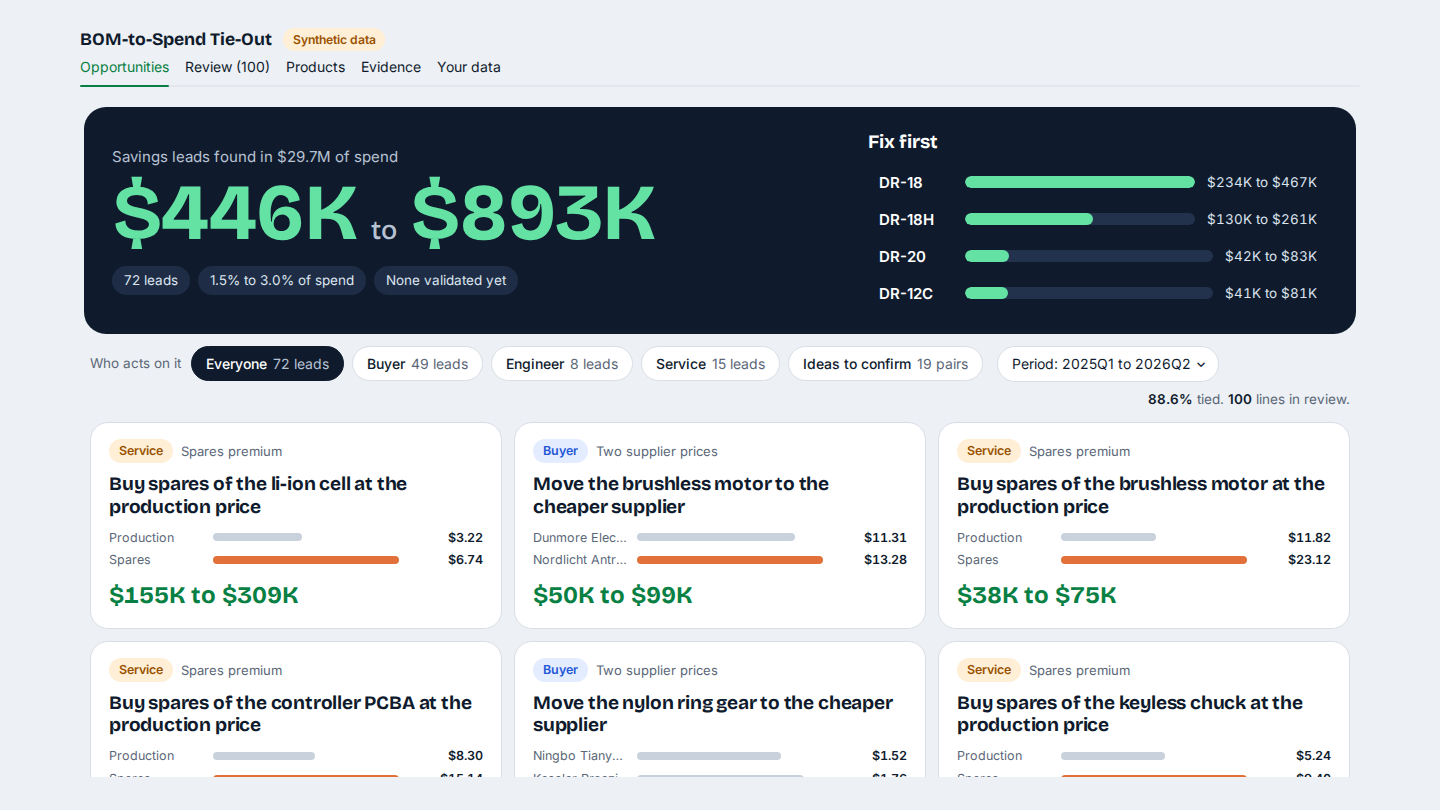
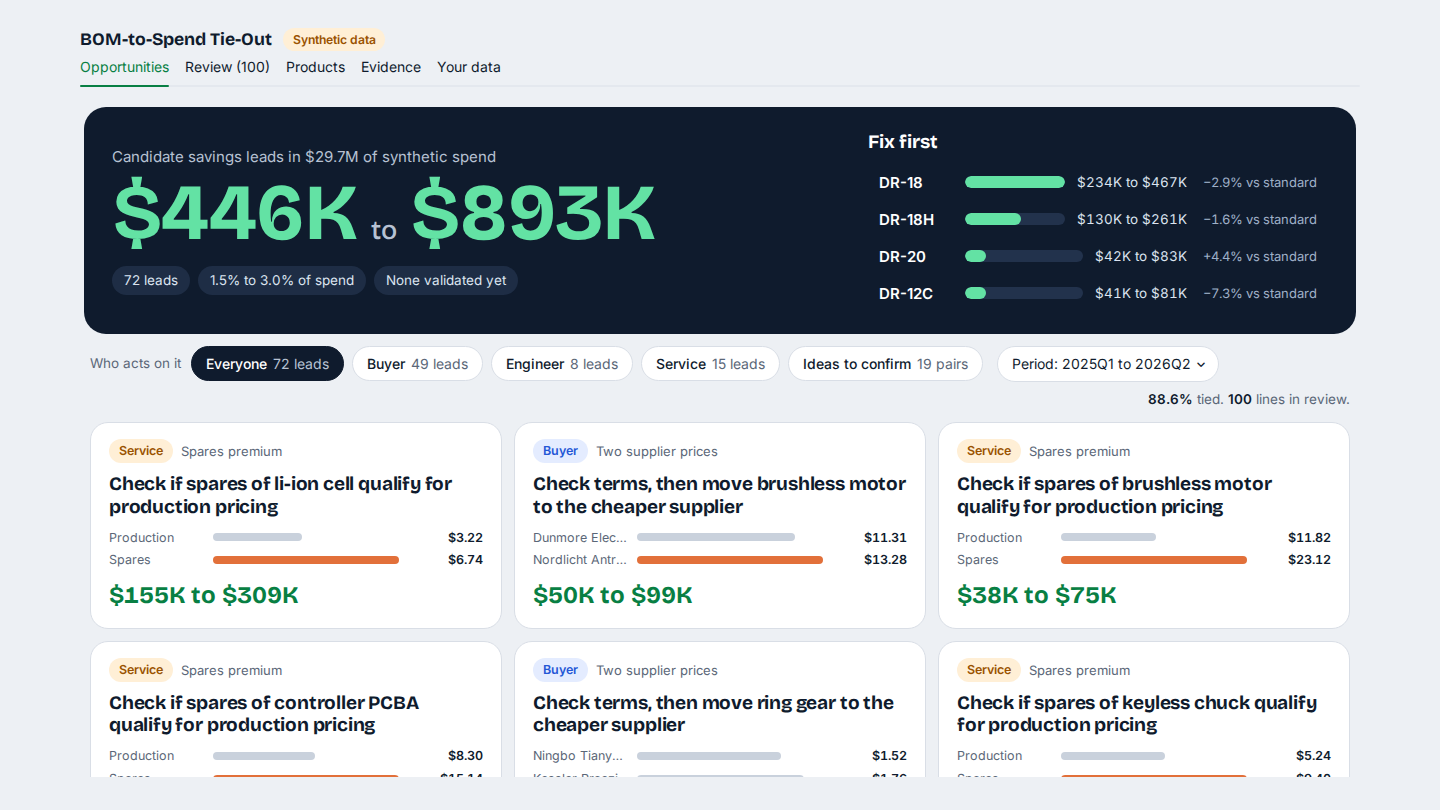
Word the leads as checks and show cost against standard in Fix first
- Hero label: candidate savings leads, in synthetic spend for the built-in sample
- Lead actions are checks: spares pricing, supplier terms, interchangeability
- Fix first rows show each product's estimated cost against BOM standard

Wording only; no figures change.

diff --git a/opportunities.html b/opportunities.html
@@ -33,12 +33,13 @@ button:focus-visible { outline: 3px solid var(--buyer); outline-offset: 2px; }
 .pill { font-size: 13.5px; padding: 5px 12px; border-radius: 999px; background: #1E2D45; color: #DCE4F0; }
 .pill.done { background: var(--money-on-dark); color: #062b18; font-weight: 600; }
 .fix-title { font-family: var(--display); font-weight: 700; font-size: 19px; margin-bottom: 8px; }
-.prod { width: 100%; display: grid; grid-template-columns: 74px 1fr auto; gap: 12px; align-items: center; background: transparent; border: 1.5px solid transparent; border-radius: 12px; padding: 7px 10px; text-align: left; color: #fff; }
+.prod { width: 100%; display: grid; grid-template-columns: 74px 1fr auto auto; gap: 12px; align-items: center; background: transparent; border: 1.5px solid transparent; border-radius: 12px; padding: 7px 10px; text-align: left; color: #fff; }
 .prod:hover { background: #18263C; }
 .prod[aria-pressed="true"] { border-color: var(--money-on-dark); background: #18263C; }
 .prod-name { font-weight: 600; }
 .prod-track { height: 12px; border-radius: 6px; background: #22324C; overflow: hidden; }
 .prod-fill { height: 100%; border-radius: 6px; background: var(--money-on-dark); transform-origin: left; animation: grow .7s cubic-bezier(.2,.8,.2,1) both; }
+.prod-vs { font-size: 13px; color: #9FB0C8; font-variant-numeric: tabular-nums; white-space: nowrap; min-width: 118px; text-align: right; }
 .prod-amt { font-size: 13.5px; color: #DCE4F0; font-variant-numeric: tabular-nums; white-space: nowrap; }
 @keyframes grow { from { transform: scaleX(0); } }
 
@@ -141,7 +142,7 @@ function countUp(el, to) {
 
 function renderHero() {
   const ls = live(), val = DATA.leads.filter((l) => state.status[l.id] === "validated");
-  $("heroLabel").textContent = "Savings leads found in " + money(DATA.spend_total) + " of spend";
+  $("heroLabel").textContent = "Candidate savings leads in " + money(DATA.spend_total) + (DATA.synthetic ? " of synthetic spend" : " of spend");
   countUp($("lo"), sum(ls, "low")); countUp($("hi"), sum(ls, "high"));
   const share = (v) => (100 * v / DATA.spend_total).toFixed(1) + "%";
   $("pills").innerHTML =
@@ -153,7 +154,7 @@ function renderProducts() {
   const rows = DATA.products.map((p) => {
     const ls = live().filter((l) => l.products.some((x) => x.id === p.id));
     const part = (k) => ls.reduce((a, l) => a + l[k] * l.products.find((x) => x.id === p.id).share, 0);
-    return { id: p.id, low: part("low"), high: part("high") };
+    return { id: p.id, low: part("low"), high: part("high"), vs: p.vs_std };
   }).sort((a, b) => b.high - a.high);
   const top = Math.max(...rows.map((r) => r.high), 1);
   $("products").innerHTML = rows.map((r) =>
@@ -161,6 +162,7 @@ function renderProducts() {
        <span class="prod-name">${esc(r.id)}</span>
        <span class="prod-track"><span class="prod-fill" style="display:block;width:${(100 * r.high / top).toFixed(1)}%"></span></span>
        <span class="prod-amt">${money(r.low)} to ${money(r.high)}</span>
+       <span class="prod-vs">${r.vs == null ? "" : (r.vs >= 0 ? "+" : "\u2212") + Math.abs(100 * r.vs).toFixed(1) + "% vs standard"}</span>
      </button>`).join("");
   document.querySelectorAll(".prod").forEach((b) => b.onclick = () => { state.product = state.product === b.dataset.id ? null : b.dataset.id; renderProducts(); renderFilters(); renderCards(); });
 }

diff --git a/app.py b/app.py
@@ -384,14 +384,18 @@ def plain_noun(description: str) -> list[str]:
 
 
 def lead_action(r) -> str:
-    """What someone would do about the lead, in 6 to 10 words. Leading qualifiers are dropped from long part names."""
+    """What to check before acting on the lead, in 6 to 10 words. Leading qualifiers are dropped from long part names."""
     if r["lead_type"] == "duplicate_part":
-        return f"Merge duplicate part numbers {r['part_number']} and {r['related']}"
+        return f"Confirm {r['part_number']} and {r['related']} are interchangeable, then merge"
     if r["lead_type"] == "similar_parts":
         return f"Ask engineering if {r['part_number']} can replace {r['related']}"
-    make = {"supplier_price_gap": "Move the {} to the cheaper supplier", "spares_premium": "Buy spares of the {} at the production price",
+    make = {"supplier_price_gap": "Check terms, then move the {} to the cheaper supplier", "spares_premium": "Check if spares of the {} qualify for production pricing",
             "over_purchase": "Find out why the {} is over-bought"}[r["lead_type"]]
     words = plain_noun(r["description"])
+    if len(words) > 1 and words[-1] in ("left", "right", "upper", "lower"):  # "housing shell left" reads as "left housing shell"
+        words = [words[-1]] + words[:-1]
+    if len(make.format(" ".join(words)).split()) > 10:  # the article goes first, then leading qualifiers
+        make = make.replace("the {}", "{}")
     while len(make.format(" ".join(words)).split()) > 10 and len(words) > 1:
         words = words[1:]
     return make.format(" ".join(words))
@@ -463,7 +467,8 @@ def opportunities_data() -> dict:
             "lines": [{"date": x.po_date, "supplier": x.supplier, "price": round(float(x.unit_price_usd), 4), "spend": round(float(x.spend_usd), 2),
                        "source": f"{x.source_file}, row {x.source_row}"} for x in top.itertuples()]})
     return {"spend_total": float(total), "tied_share": float(tied), "waiting_lines": int(len(queue)),
-            "products": [{"id": pid} for pid in products["product_id"]], "leads": out}
+            "synthetic": bool(is_sample),
+            "products": [{"id": r.product_id, "vs_std": None if pd.isna(r.actual_vs_std) else float(r.actual_vs_std)} for r in products.itertuples()], "leads": out}
 
 
 tab_labels = ["Opportunities", f"Review ({len(queue)})", "Products", "Evidence", "Your data"]
